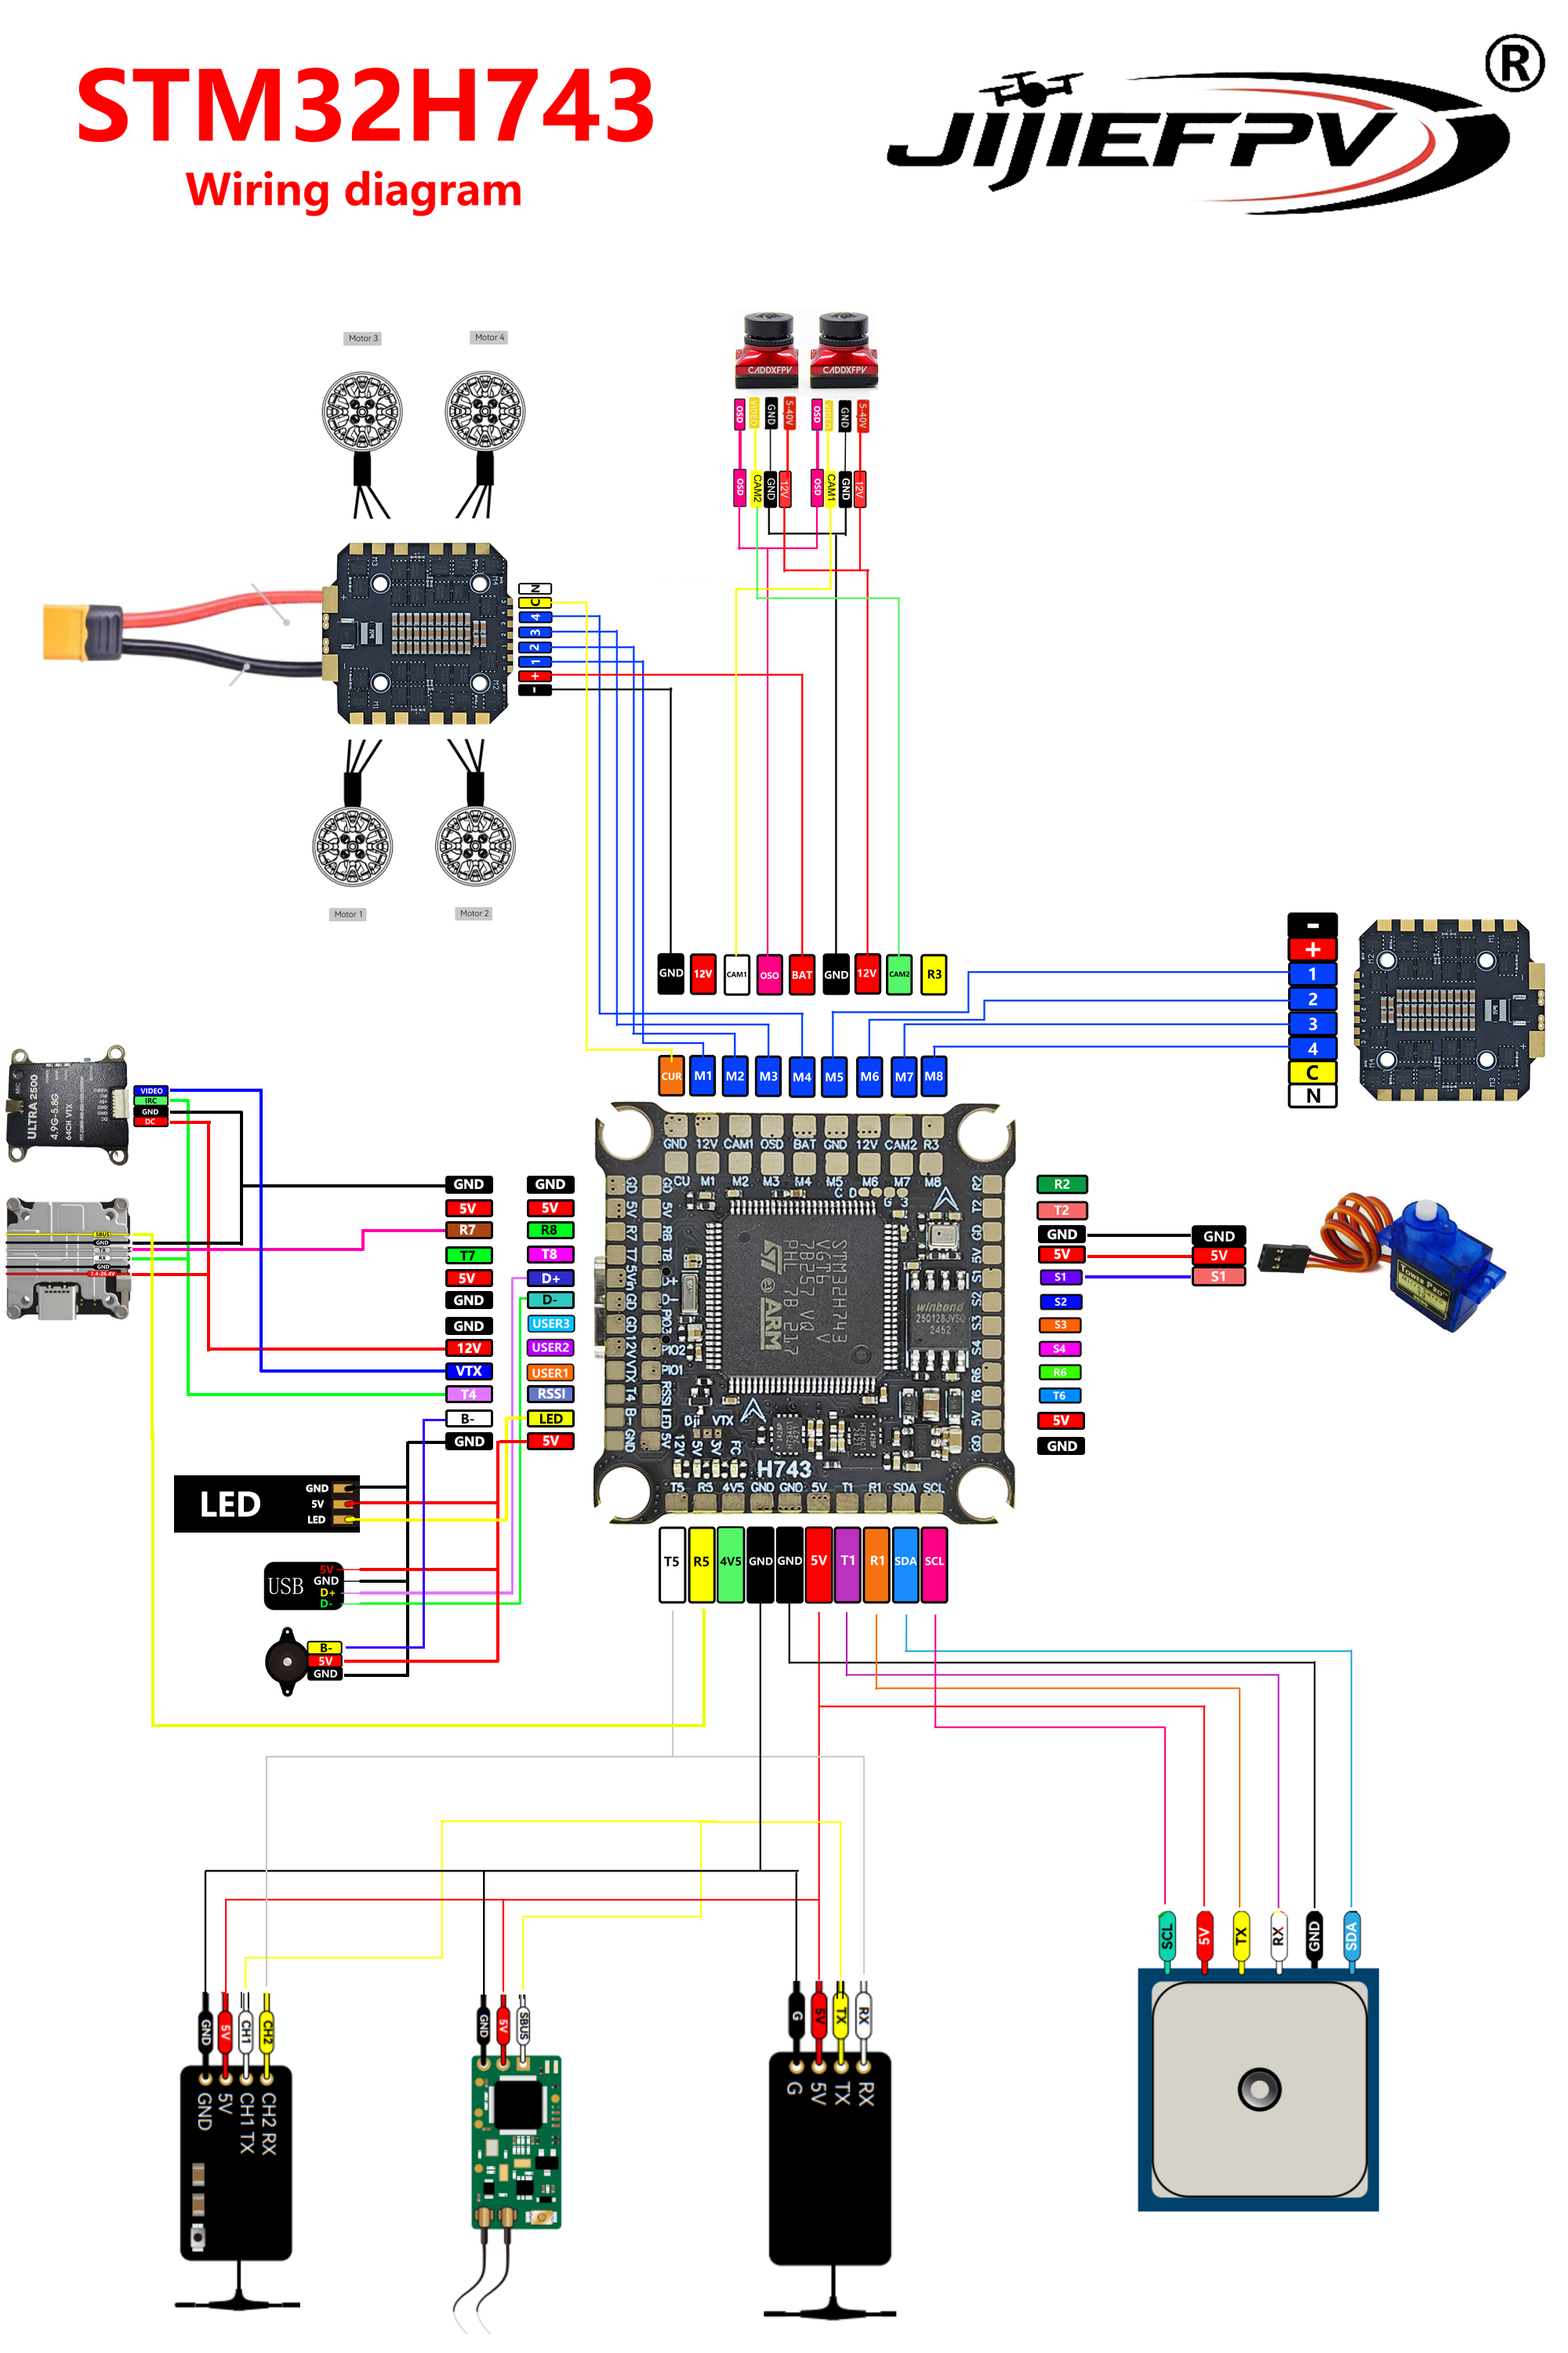
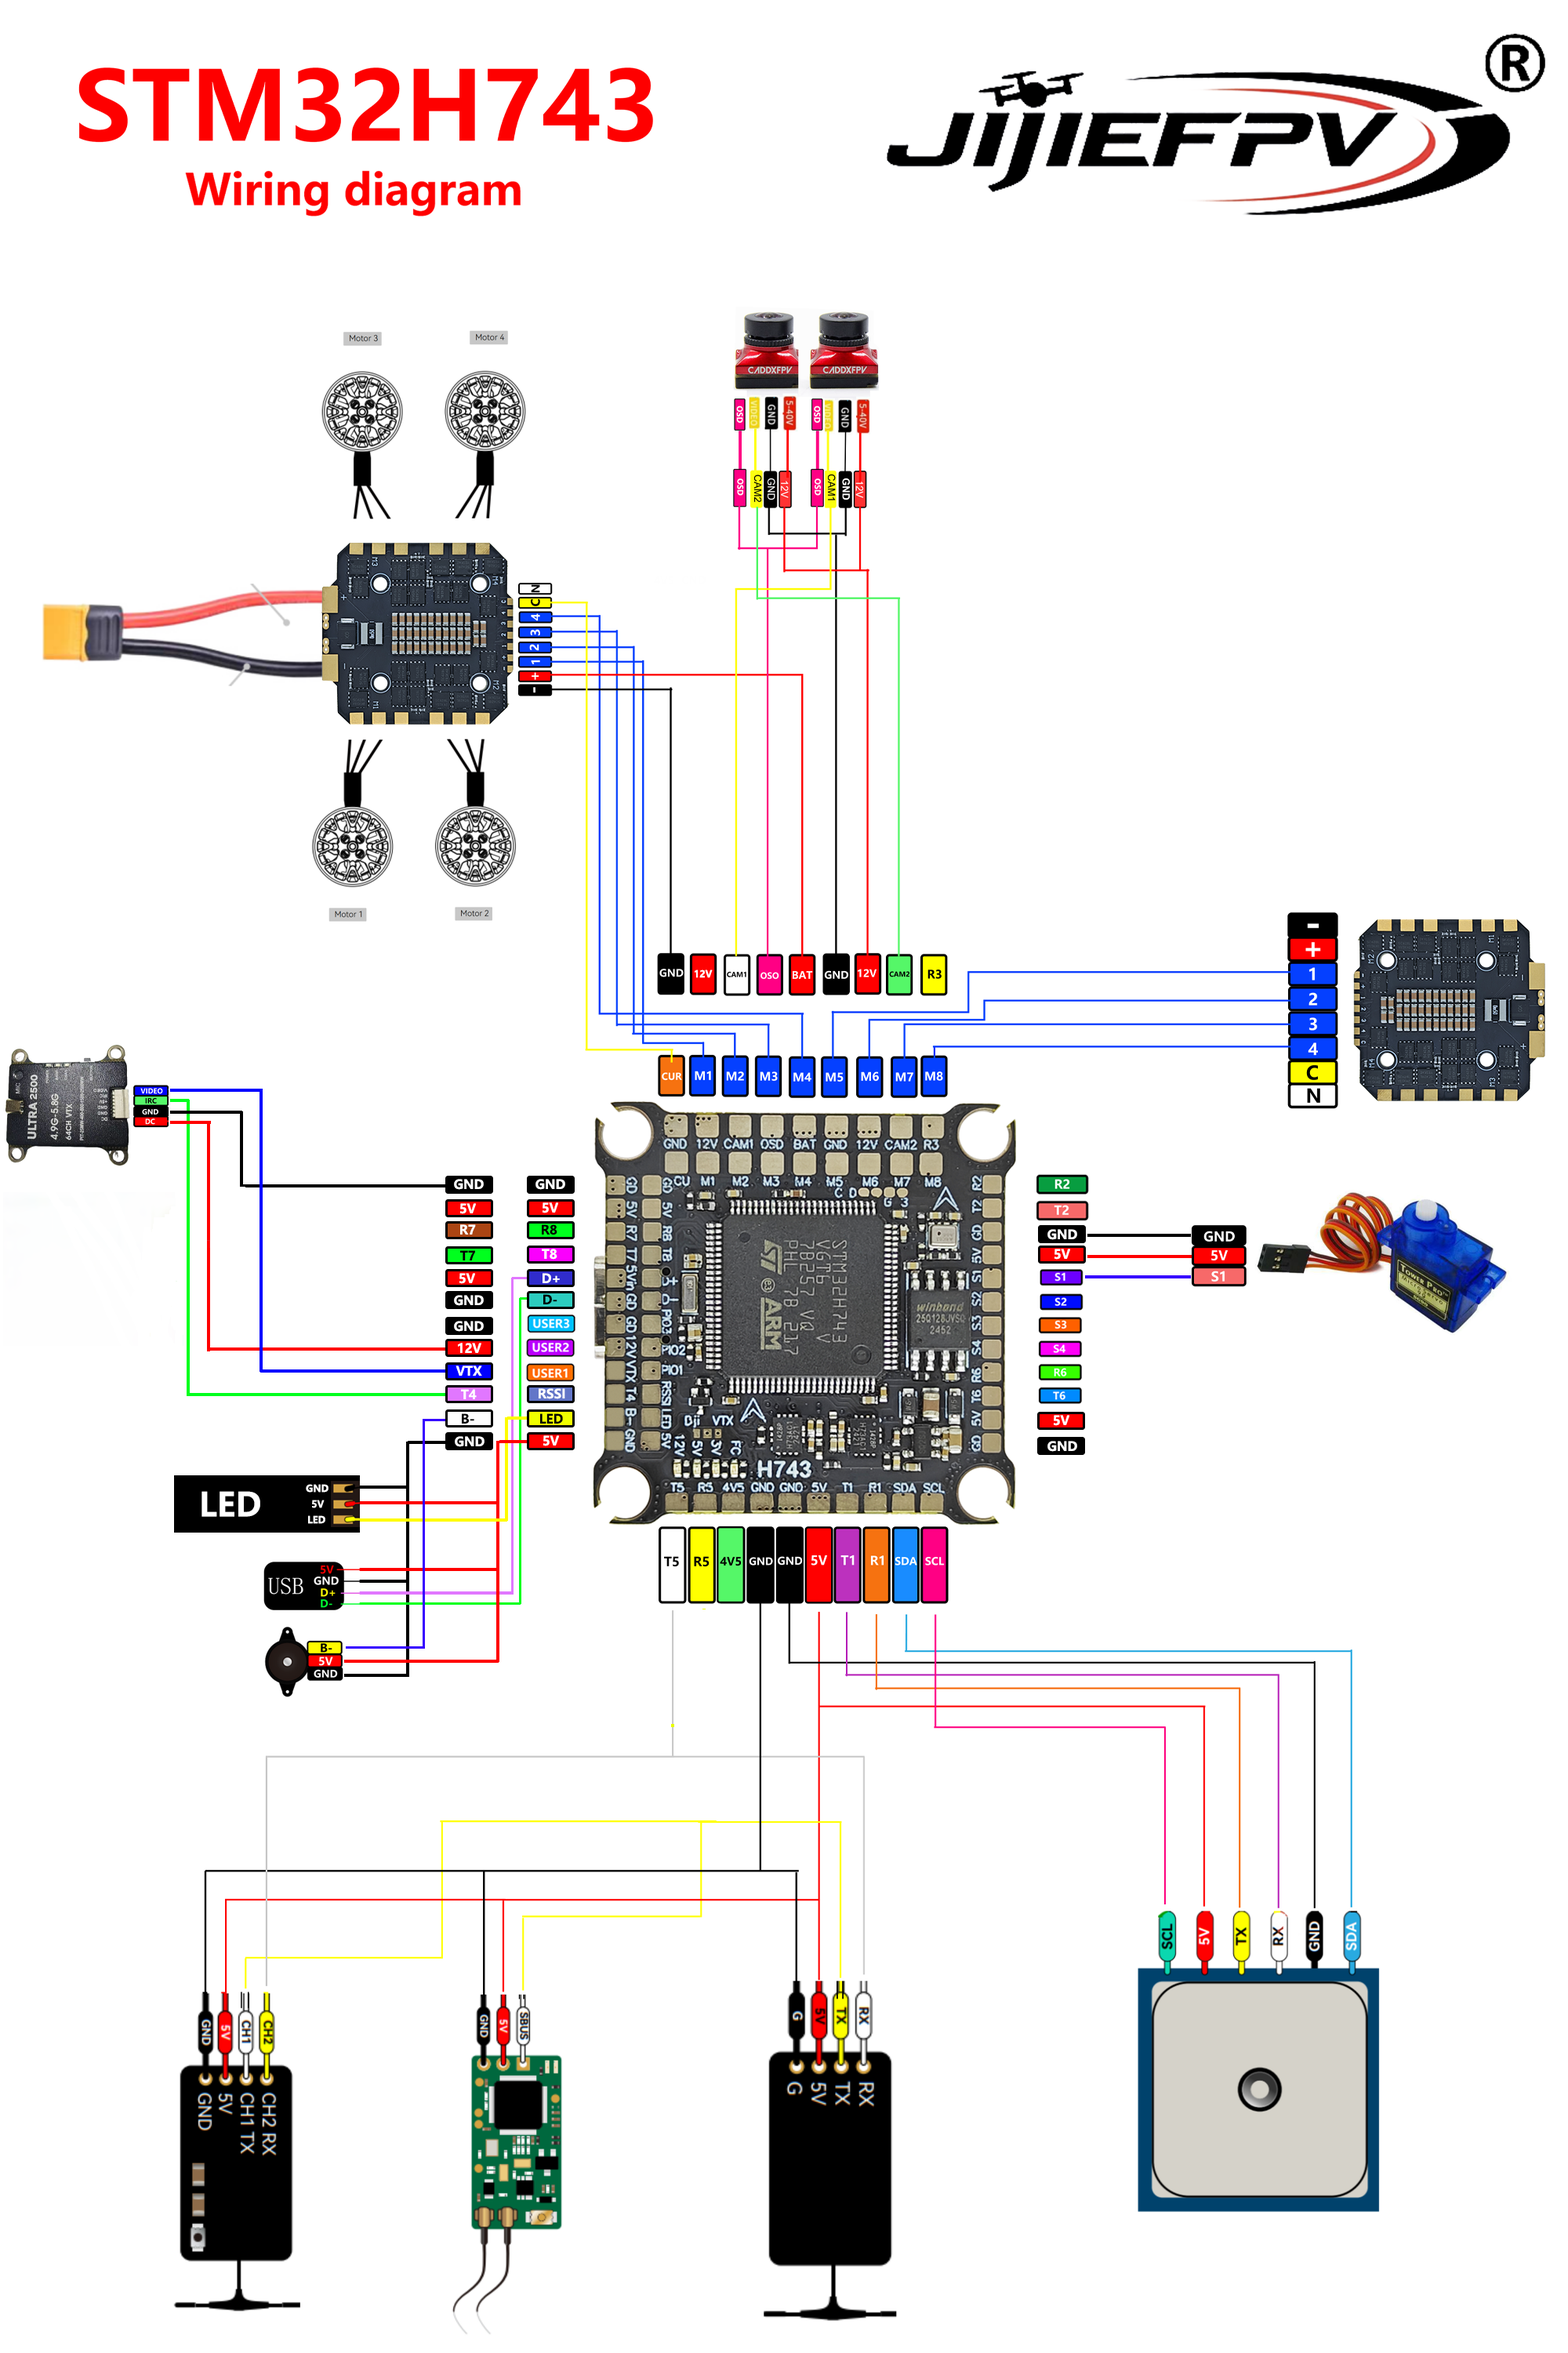
update: hwdef.dat: 1.UART5 use DMA for RCIN. 2.USART2,3 NODMA. 3.USART6,7 use DMA.
defaults.parm:
1.setup for LEDs on chan14.

WiringDiagramTop.png:
1.updated the correct wiring diagram.

Changed region(s): [[0.0, 0.496, 0.155, 0.558]]

diff --git a/libraries/AP_HAL_ChibiOS/hwdef/DAKEFPVH743/README.md b/libraries/AP_HAL_ChibiOS/hwdef/DAKEFPVH743/README.md
@@ -60,9 +60,9 @@ You need to set the following parameters to enable support for FrSky S.PORT:
 
 ## PWM Output
 
-The DAKEFPV H743 supports up to 13 PWM or DShot outputs. The pads for motor output
+The DAKEFPV H743 supports up to 14 PWM or DShot outputs. The pads for motor output
 M1 to M8 are provided on both the motor connectors and on separate pads, plus
-M9-13 on a separate pads for LED strip and other PWM outputs.
+M9-14 on a separate pads for LED strip and other PWM outputs.
 
 The PWM is in 4 groups:
 
@@ -70,7 +70,8 @@ The PWM is in 4 groups:
  - PWM 5-8     in group2
  - PWM 9-10    in group3
  - PWM 11-12   in group4
- - PWM 13(LED) in group5 (set as Serial LED output function by default) 
+ - PWM 13      in group5 (CAMERA_CONTROL)
+ - PWM 14(LED) in group6 (set as Serial LED output function by default) 
 
 Channels within the same group need to use the same output rate. If
 any channel in a group uses DShot then all channels in the group need
